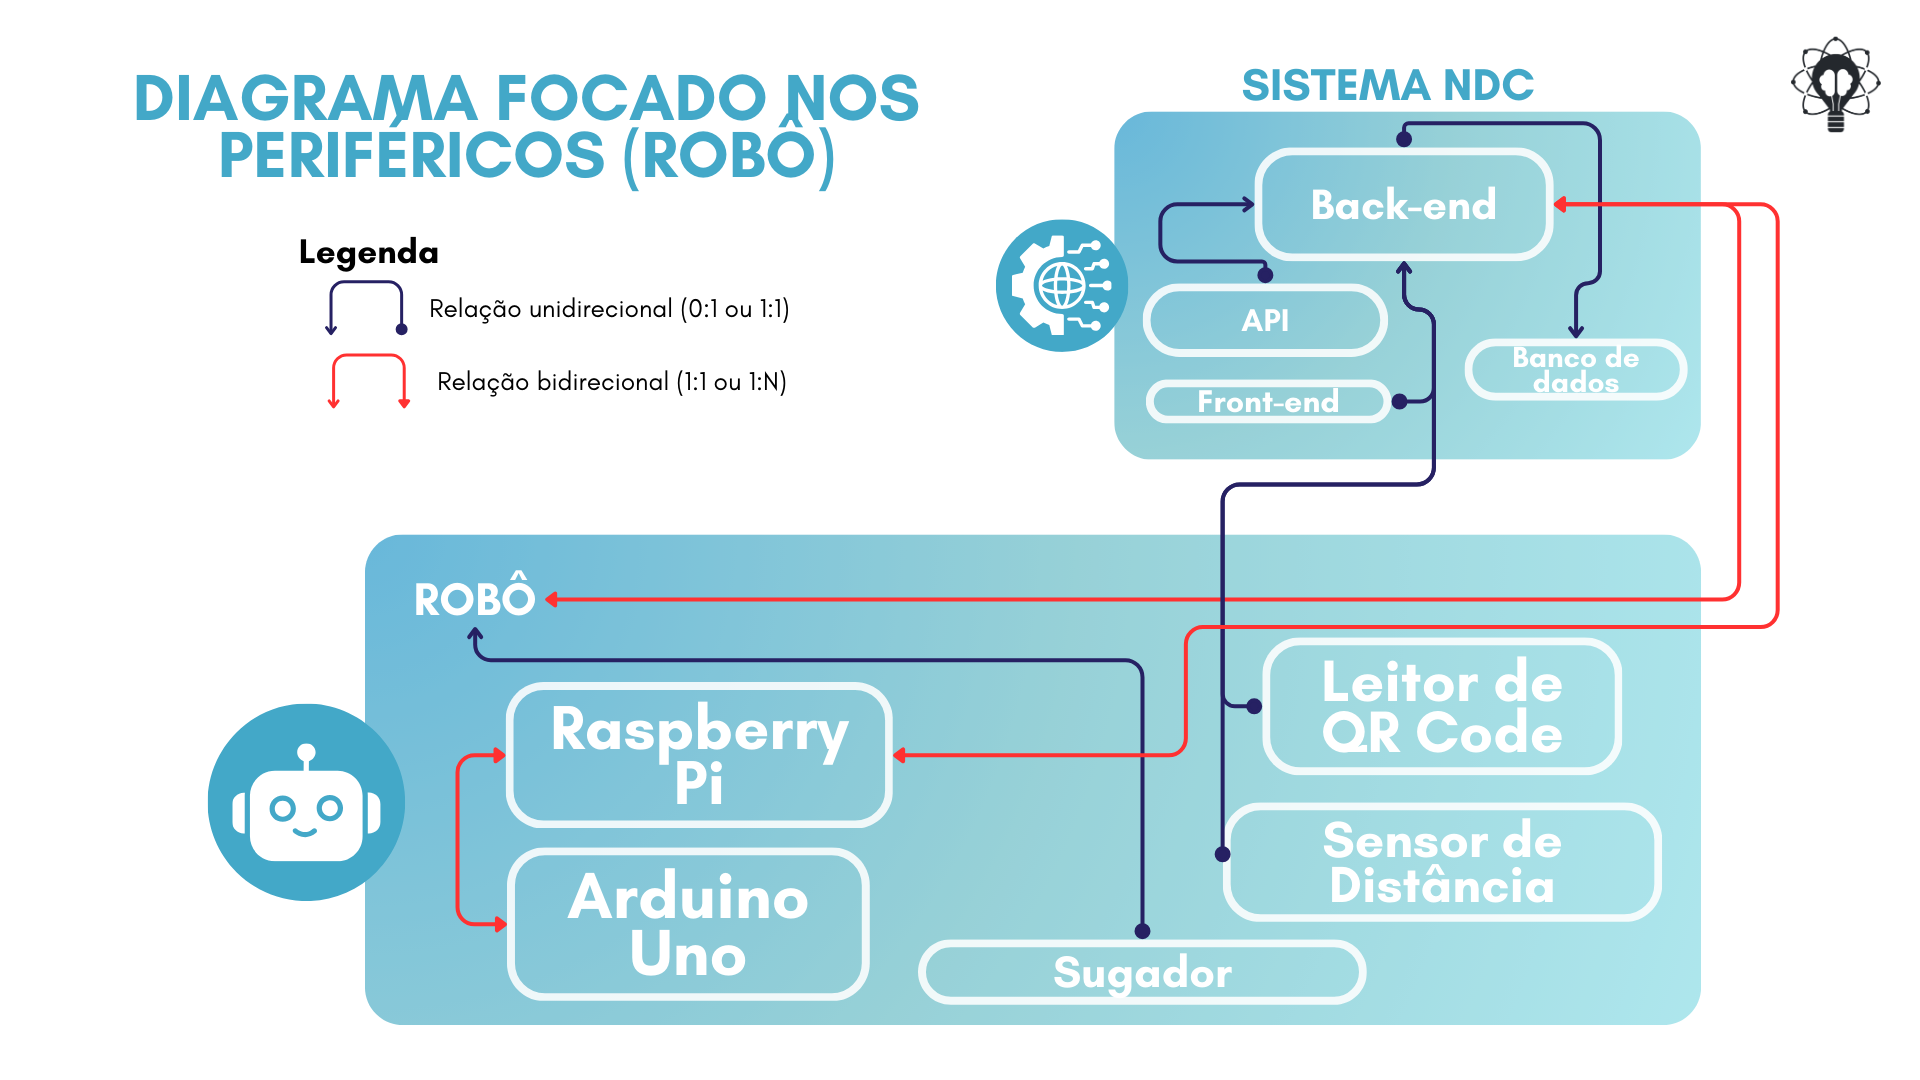
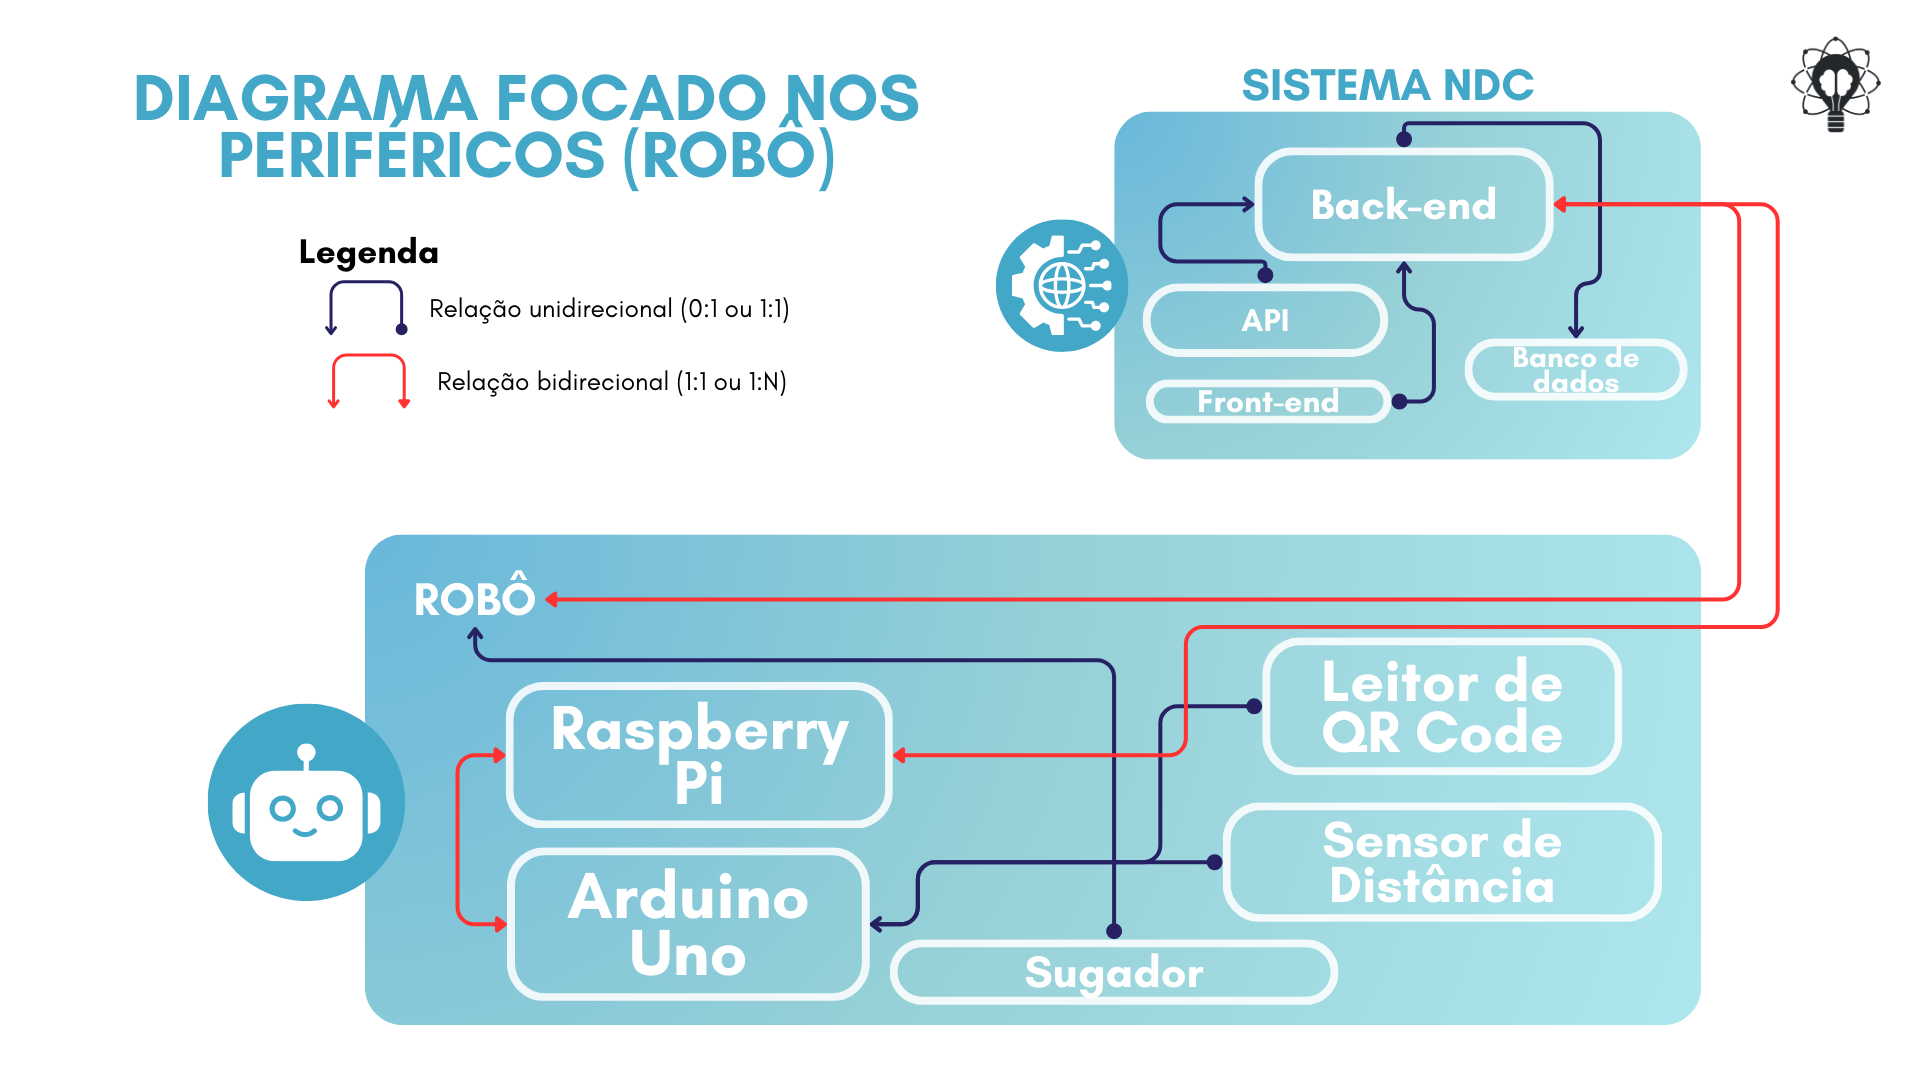
docs: ajusta imagem e fluxo do diagrama de blocos
Este commit ajusta o fluxo do diagrama de blocos

diff --git a/docs/docs/sprint-3/diagrama-de-blocos/diagrama-de-blocos.md b/docs/docs/sprint-3/diagrama-de-blocos/diagrama-de-blocos.md
@@ -77,8 +77,8 @@ custom_edit_url: null
 5. **⚙ [Sistema NDC (Back-end)] → 💾 [Banco de Dados]**  
 6. **🔌 [Sistema NDC (API)] → ⚙ [Sistema NDC (Back-end)]**  
 7. **🍓 [Raspberry Pi] ⇄ ⚙ [Back-end]**  
-8. **📸 [Sensor Leitor de QR Code] → ⚙ [Back-end]**  
-9. **📏 [Sensor de Distância] → ⚙ [Back-end]**  
+8. **📸 [Sensor Leitor de QR Code] → ⚙ [Arduino Uno]**  
+9. **📏 [Sensor de Distância] → ⚙ [Arduino Uno]**  
 10. **🛠 [Arduino Uno] → 🌀 [Sugador do Robô]**  
 
 ## Conclusão  
